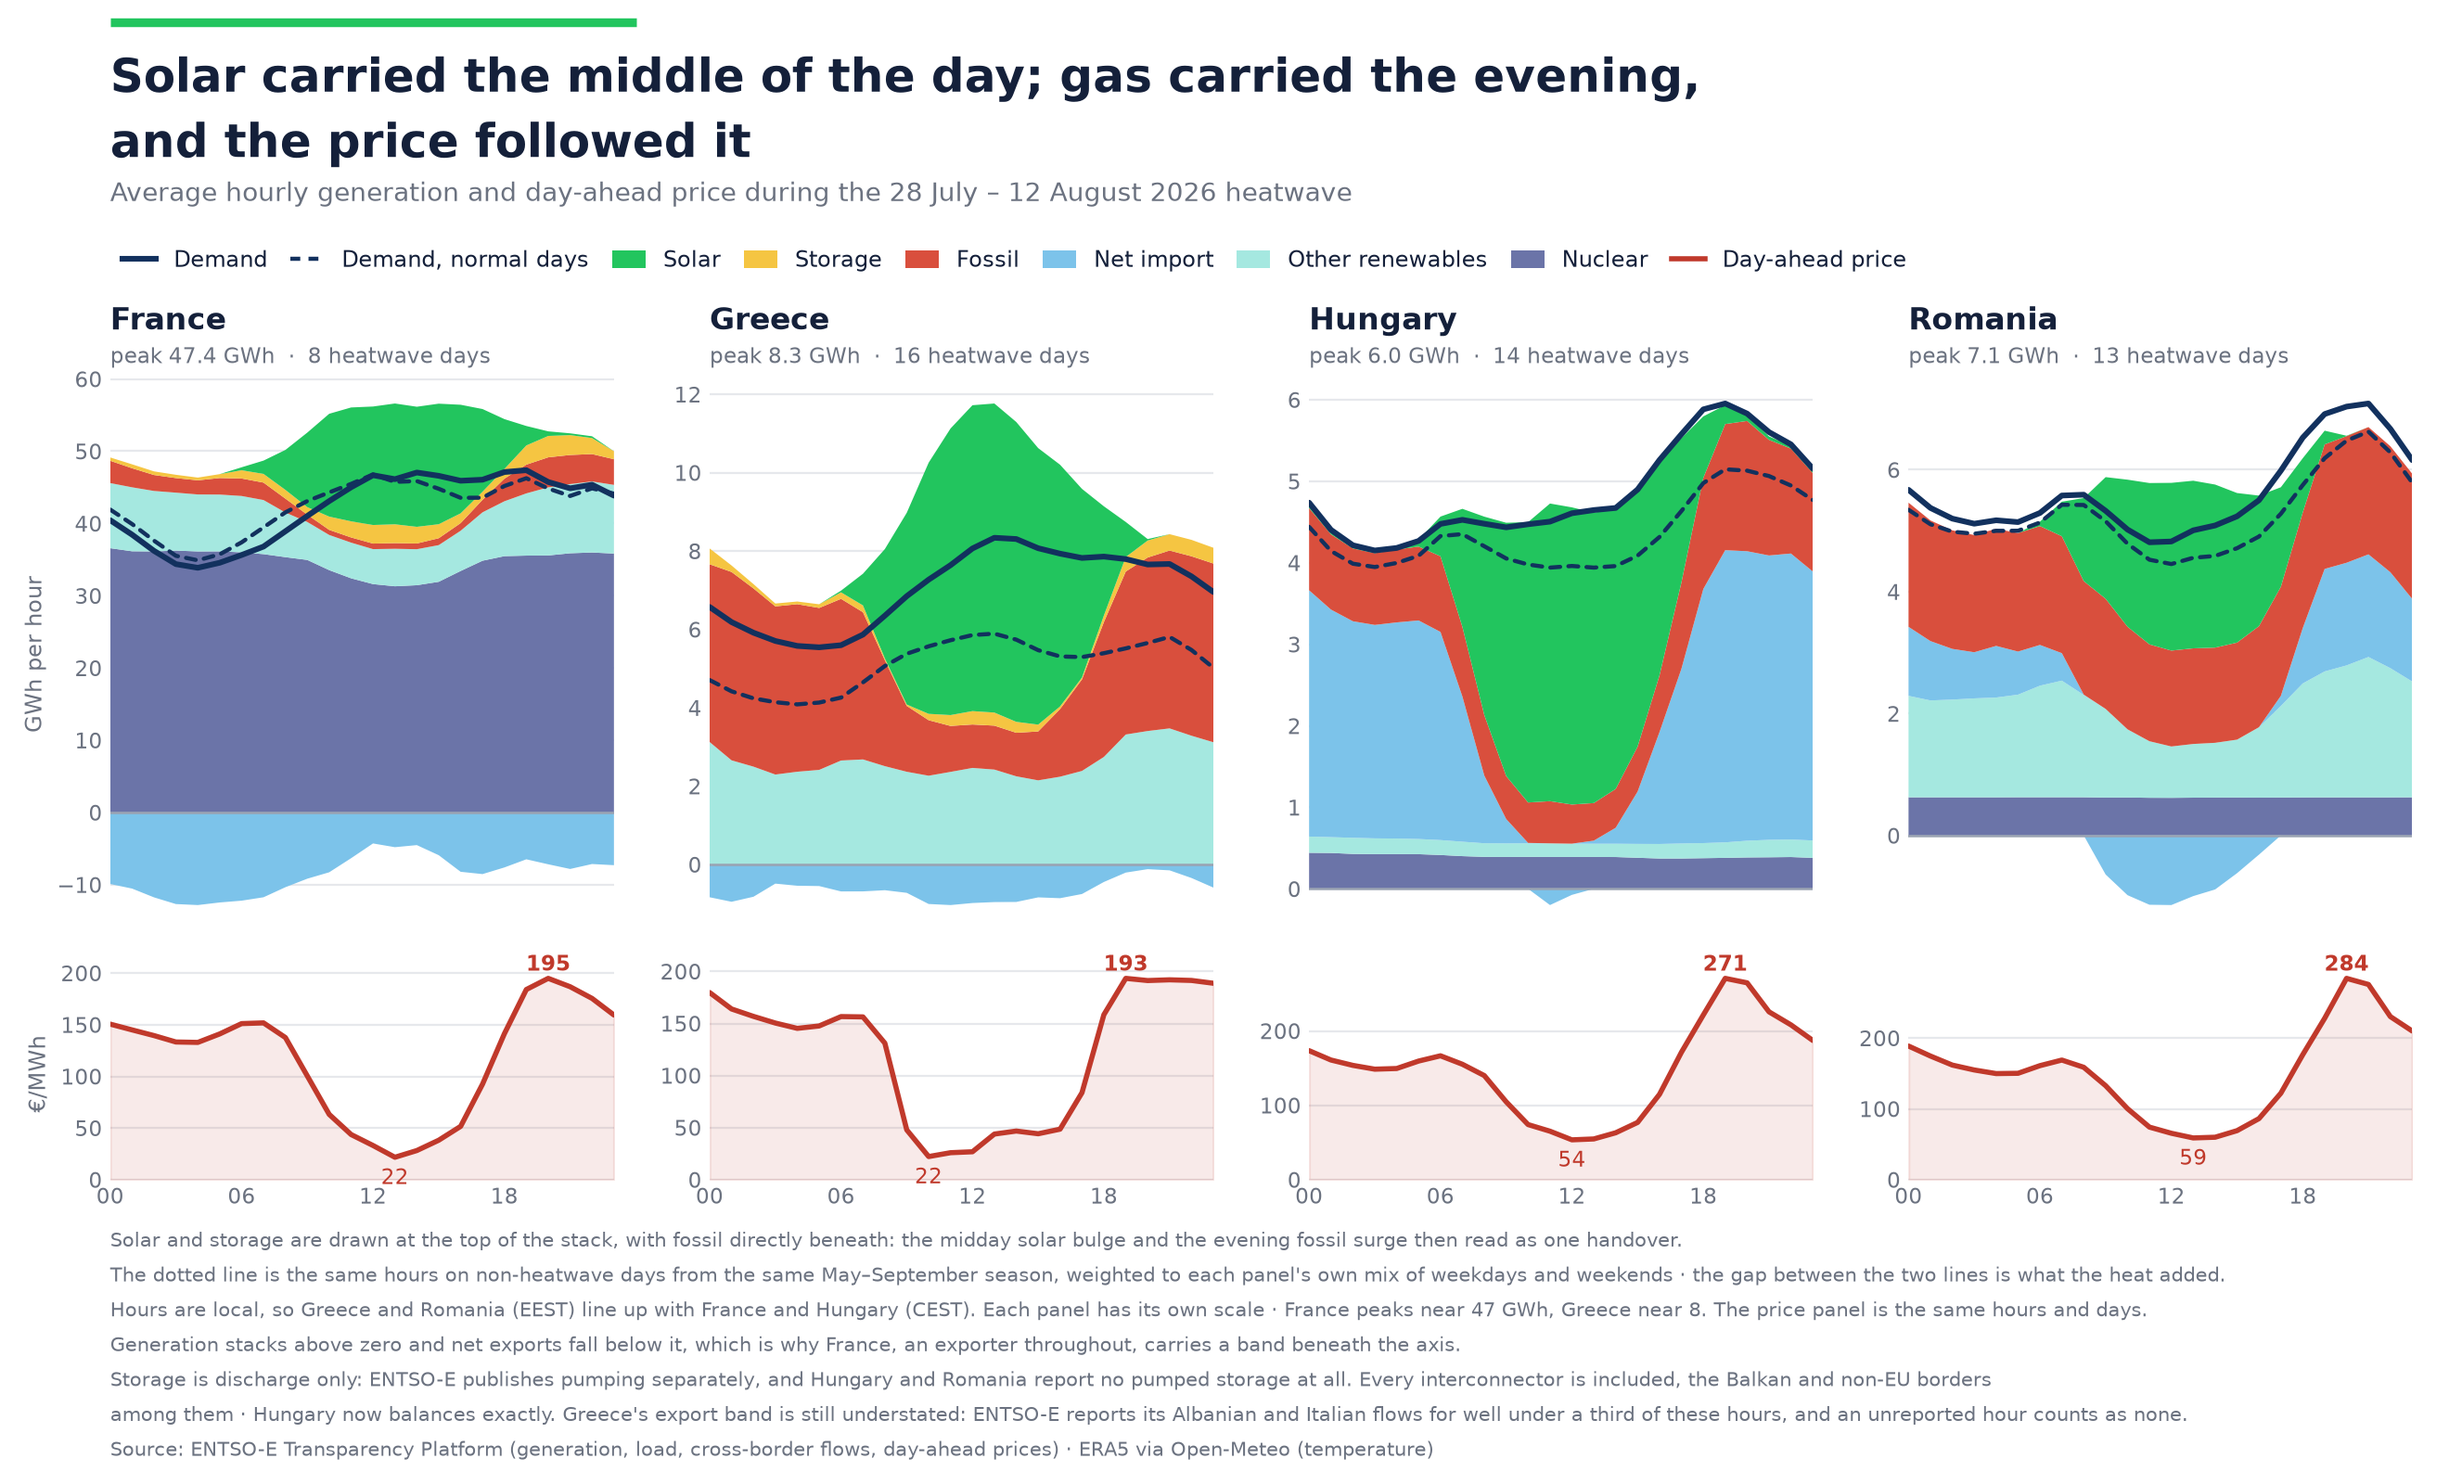
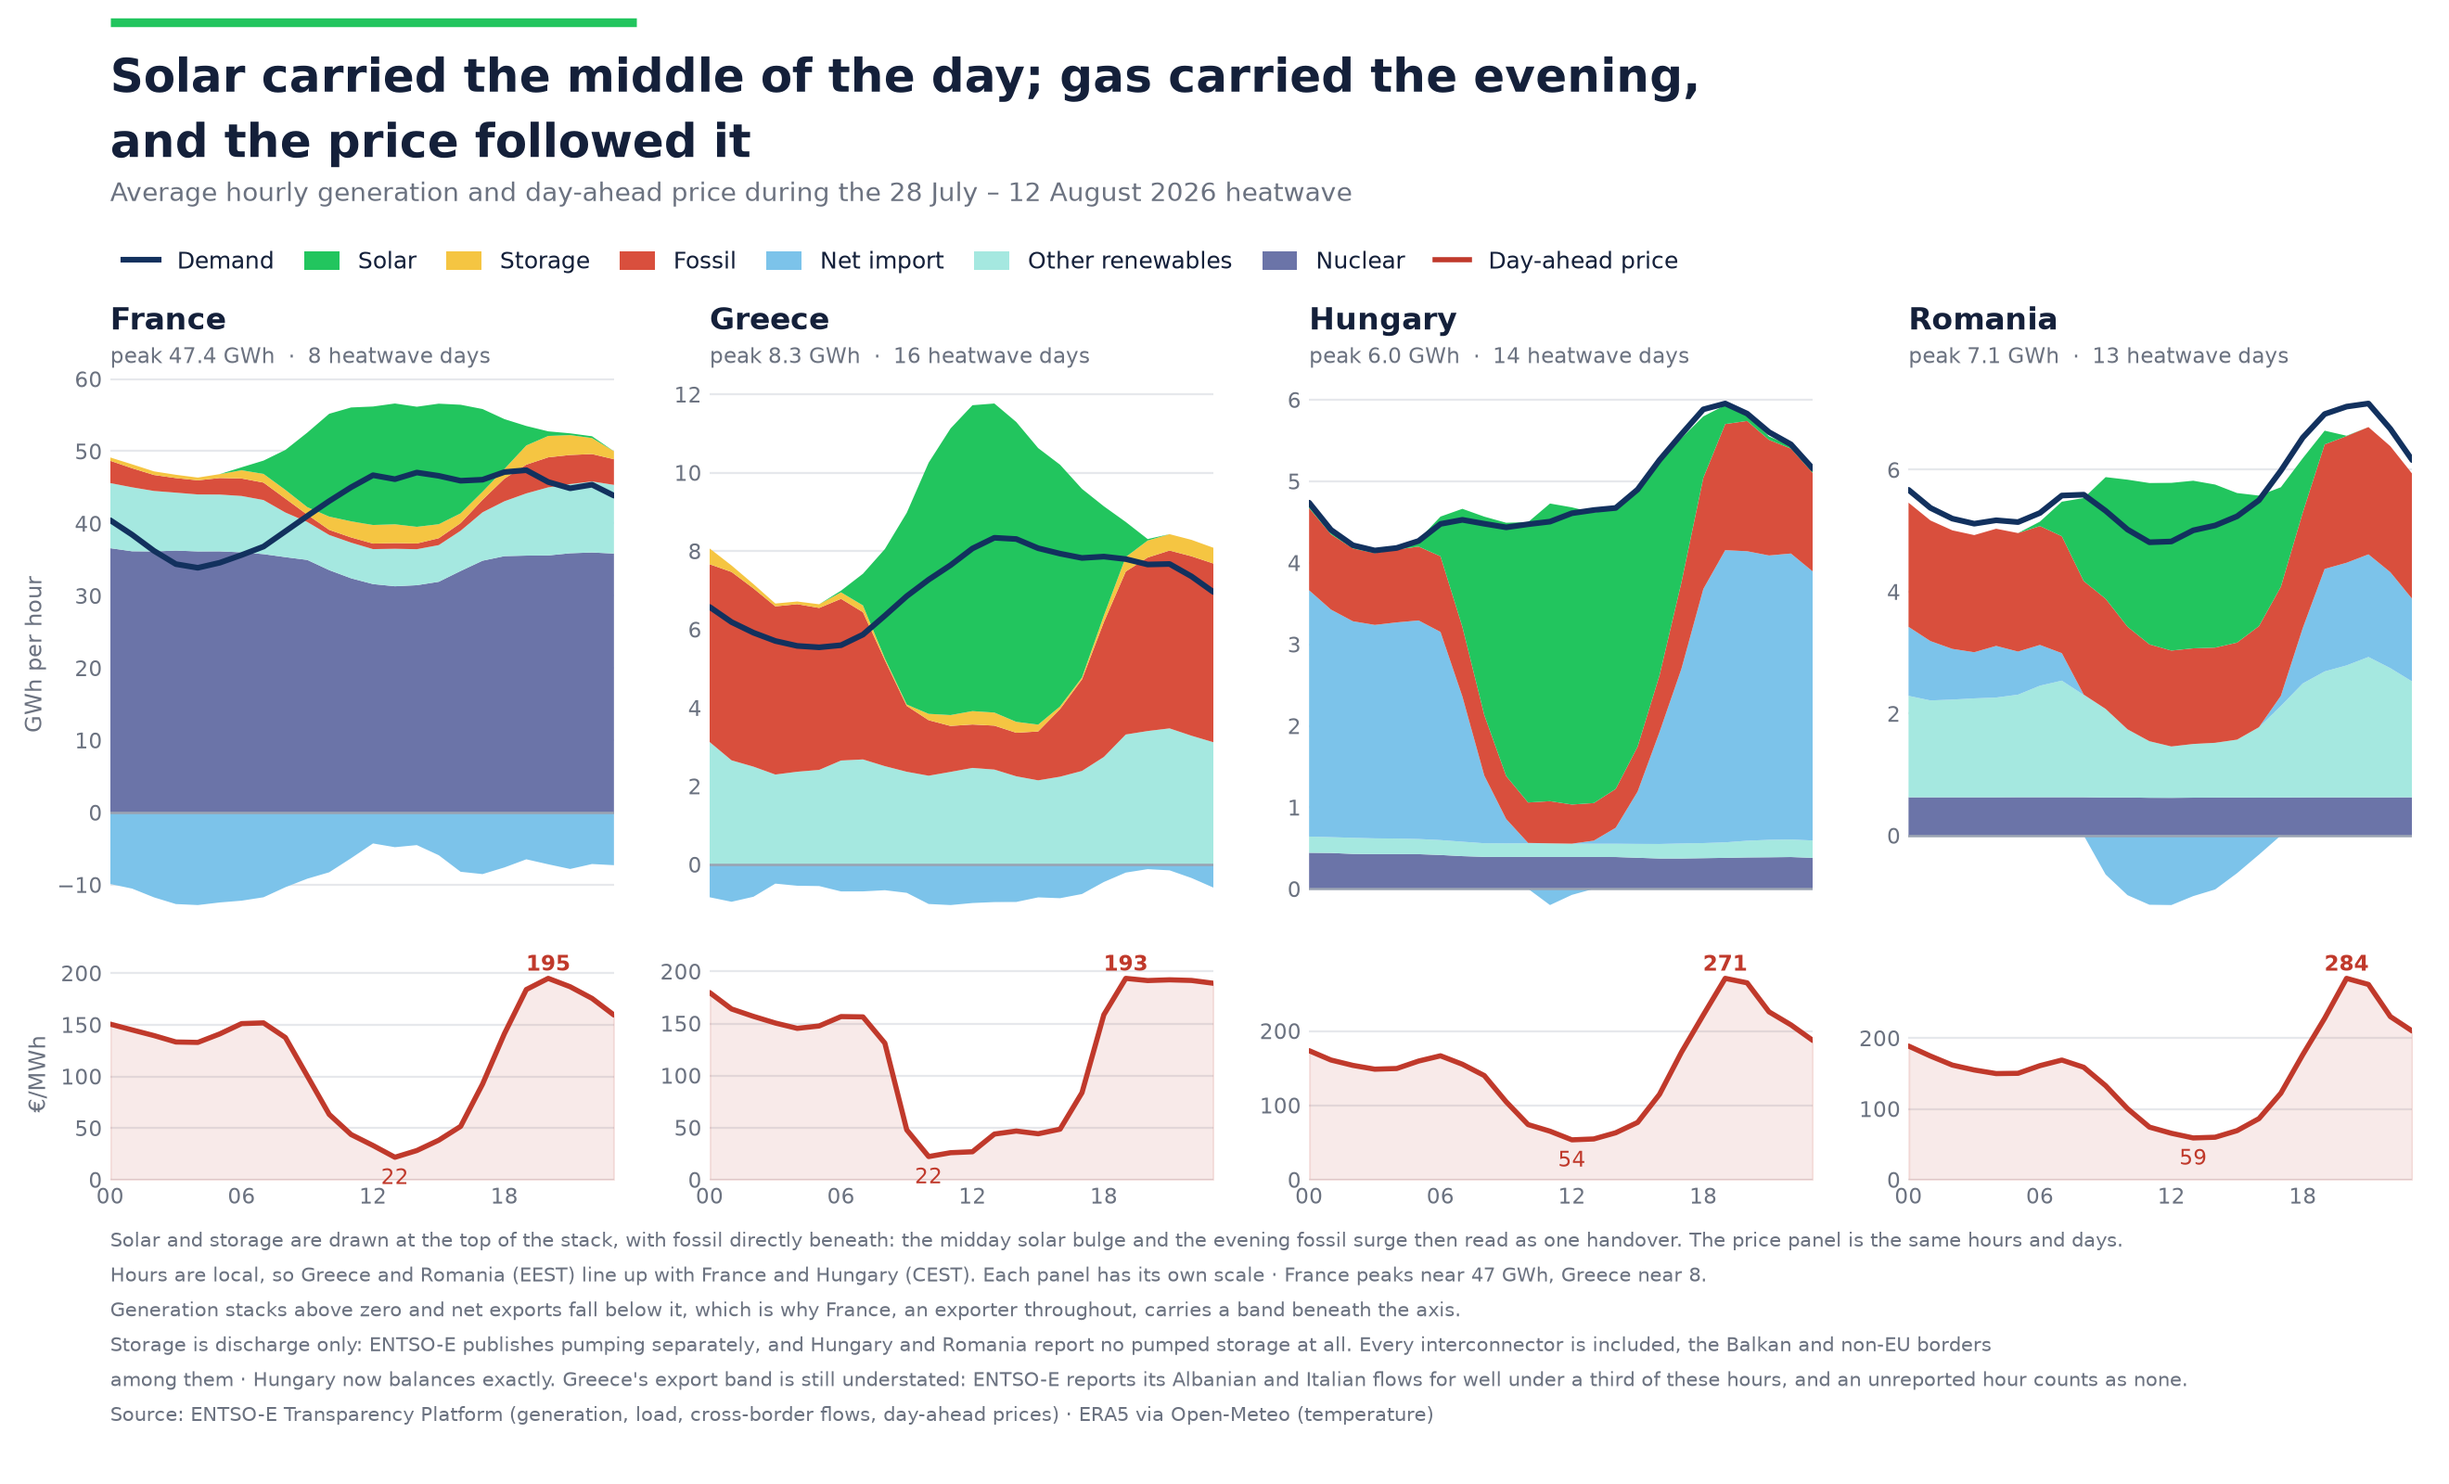
Remove the dotted baseline from the profile chart
Taken back out along with everything that fed it: the second demand line, its
legend entry, its footnote and the query that fetched it, so no dead call is
left making a request for data nothing draws. The footnote about the price
panel goes back where it was.

The two improvements the exercise produced are kept, because neither has
anything to do with the line. Footnotes are still laid out from a start and a
step rather than hand-placed y values - two of them had been given the same
position, which is how the new line landed on top of an existing one - and the
legend still sets its column count from the number of handles rather than a
fixed 8, so it cannot wrap onto the France panel title.

heatwave_event_baseline.sql stays, and so does the view it created. Nothing
reads either now. It is left in place because the view exists in the database
and that file is its only record; say the word and both go.

Changed region(s): [[0.0311, 0.8125, 0.9008, 1.0], [0.0621, 0.1562, 0.7765, 0.1875]]

diff --git a/python/make_heatwave_infographic.py b/python/make_heatwave_infographic.py
@@ -68,7 +68,7 @@ def get(path: str):
         return json.loads(r.read())
 
 
-def fetch() -> tuple[dict, dict, dict]:
+def fetch() -> tuple[dict, dict]:
     prof: dict = {}
     for x in get("v_hw_event_profile?select=*"):
         (prof.setdefault(x["country_code"], {})
@@ -76,15 +76,10 @@ def fetch() -> tuple[dict, dict, dict]:
     price: dict = {}
     for x in get("v_hw_event_price?select=*"):
         price.setdefault(x["country_code"], {})[int(x["hour"])] = float(x["eur"])
-    # Demand on non-heatwave days from the same season, weighted to the weekday
-    # mix of the heatwave days each panel is drawn from.
-    base: dict = {}
-    for x in get("v_hw_event_baseline_demand?select=*"):
-        base.setdefault(x["country_code"], {})[int(x["hour"])] = float(x["gwh"])
-    return prof, price, base
+    return prof, price
 
 
-def draw_dispatch(ax, xs, series, title, note, base=None):
+def draw_dispatch(ax, xs, series, title, note):
     pos = [0.0] * len(xs)
     neg = [0.0] * len(xs)
     for key in STACK:
@@ -104,11 +99,6 @@ def draw_dispatch(ax, xs, series, title, note, base=None):
             ax.fill_between(xs, lo, neg, facecolor=COLOR[key], linewidth=0, zorder=2)
             neg = lo
 
-    # Baseline first, so the heatwave line sits on top of it where they meet.
-    if base:
-        ax.plot(xs, [base.get(h, float("nan")) for h in xs], color=DEMAND,
-                linewidth=1.6, zorder=3.5, linestyle=(0, (2.4, 2.0)),
-                dash_capstyle="round")
     ax.plot(xs, [series[h].get("demand", 0.0) for h in xs],
             color=DEMAND, linewidth=2.2, zorder=4, solid_capstyle="round")
     ax.axhline(0, color="#9aa3b2", linewidth=0.9, zorder=3)
@@ -151,7 +141,7 @@ def draw_price(ax, xs, px):
                     fontsize=8.4, color=PRICE)
 
 
-def build(prof: dict, price: dict, base: dict):
+def build(prof: dict, price: dict):
     plt.rcParams["font.family"] = ["DejaVu Sans"]
     fig = plt.figure(figsize=(13.2, 8.0), dpi=200)
     fig.patch.set_facecolor("#ffffff")
@@ -166,17 +156,14 @@ def build(prof: dict, price: dict, base: dict):
 
     present = {k for cc, _ in COUNTRIES for h in prof.get(cc, {}).values()
                for k in h if abs(h.get(k, 0.0)) > 1e-9}
-    handles = [Line2D([], [], color=DEMAND, linewidth=2.2, label="Demand"),
-               Line2D([], [], color=DEMAND, linewidth=1.6, label="Demand, normal days",
-                      linestyle=(0, (2.4, 2.0)))]
+    handles = [Line2D([], [], color=DEMAND, linewidth=2.2, label="Demand")]
     handles += [Patch(facecolor=COLOR[k], label=LABEL[k])
                 for k in reversed(STACK) if k in present]
     handles += [Line2D([], [], color=PRICE, linewidth=2.0, label="Day-ahead price")]
-    # One row, always: the baseline entry made nine, and at ncol=8 the legend
-    # wrapped onto a second line that landed on top of the France panel title.
+    # One row, always. Wrapping puts the second line on top of the France title.
     fig.legend(handles=handles, loc="upper left", bbox_to_anchor=(0.042, 0.845),
-               ncol=len(handles), frameon=False, fontsize=8.6, handlelength=1.5,
-               handleheight=0.9, columnspacing=1.05, labelcolor=INK)
+               ncol=len(handles), frameon=False, fontsize=9, handlelength=1.5,
+               handleheight=0.9, columnspacing=1.3, labelcolor=INK)
 
     gs = fig.add_gridspec(2, 4, left=0.045, right=0.985, top=0.745, bottom=0.205,
                           hspace=0.10, wspace=0.19, height_ratios=[3.0, 1.15])
@@ -189,8 +176,7 @@ def build(prof: dict, price: dict, base: dict):
         peak = max(series[h].get("demand", 0.0) for h in xs)
         ax = fig.add_subplot(gs[0, i])
         draw_dispatch(ax, xs, series, name,
-                      f"peak {peak:.1f} GWh  {MIDDOT}  {HW_DAYS.get(cc, 0)} heatwave days",
-                      base=base.get(cc))
+                      f"peak {peak:.1f} GWh  {MIDDOT}  {HW_DAYS.get(cc, 0)} heatwave days")
         if i == 0:
             ax.set_ylabel("GWh per hour", fontsize=8.6, color=MUTED, labelpad=4)
         axp = fig.add_subplot(gs[1, i])
@@ -201,9 +187,8 @@ def build(prof: dict, price: dict, base: dict):
     # Laid out from a single start and step rather than hand-placed, so adding a
     # line cannot silently print it on top of the next one.
     foot = [
-        f"Solar and storage are drawn at the top of the stack, with fossil directly beneath: the midday solar bulge and the evening fossil surge then read as one handover.",
-        f"The dotted line is the same hours on non-heatwave days from the same May{NDASH}September season, weighted to each panel's own mix of weekdays and weekends {MIDDOT} the gap between the two lines is what the heat added.",
-        f"Hours are local, so Greece and Romania (EEST) line up with France and Hungary (CEST). Each panel has its own scale {MIDDOT} France peaks near 47 GWh, Greece near 8. The price panel is the same hours and days.",
+        f"Solar and storage are drawn at the top of the stack, with fossil directly beneath: the midday solar bulge and the evening fossil surge then read as one handover. The price panel is the same hours and days.",
+        f"Hours are local, so Greece and Romania (EEST) line up with France and Hungary (CEST). Each panel has its own scale {MIDDOT} France peaks near 47 GWh, Greece near 8.",
         f"Generation stacks above zero and net exports fall below it, which is why France, an exporter throughout, carries a band beneath the axis.",
         f"Storage is discharge only: ENTSO-E publishes pumping separately, and Hungary and Romania report no pumped storage at all. Every interconnector is included, the Balkan and non-EU borders",
         f"among them {MIDDOT} Hungary now balances exactly. Greece's export band is still understated: ENTSO-E reports its Albanian and Italian flows for well under a third of these hours, and an unreported hour counts as none.",
@@ -221,7 +206,7 @@ def build(prof: dict, price: dict, base: dict):
 
 def main() -> None:
     OUT.mkdir(parents=True, exist_ok=True)
-    prof, price, base = fetch()
+    prof, price = fetch()
     for cc, name in COUNTRIES:
         px = price.get(cc, {})
         if px:
@@ -229,7 +214,7 @@ def main() -> None:
             hi = max(px, key=lambda h: px[h])
             print(f"{name}: price {px[lo]:.0f} at {lo:02d}h -> {px[hi]:.0f} at {hi:02d}h "
                   f"({px[hi]/max(px[lo], 0.01):.1f}x)")
-    fig = build(prof, price, base)
+    fig = build(prof, price)
     pdf = OUT / "heatwave_july_august_2026.pdf"
     png = OUT / "heatwave_july_august_2026.png"
     fig.savefig(pdf, format="pdf", facecolor=fig.get_facecolor())
